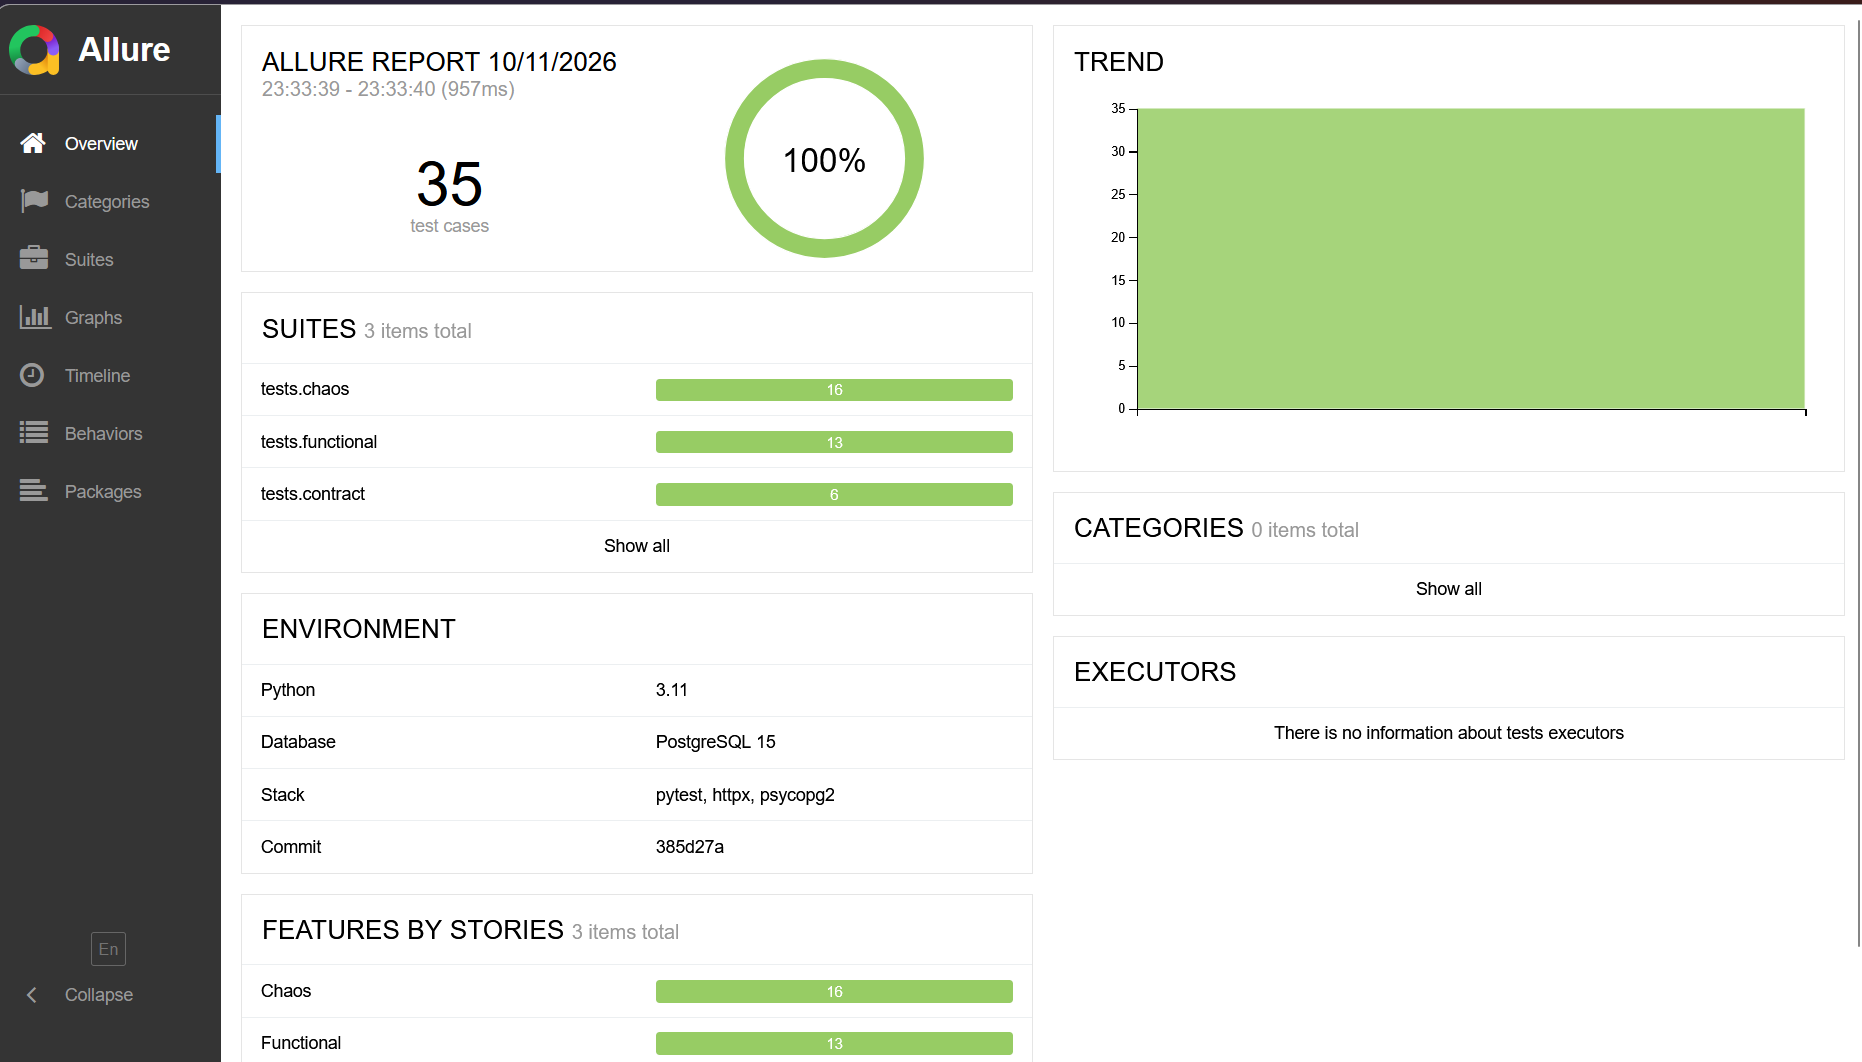
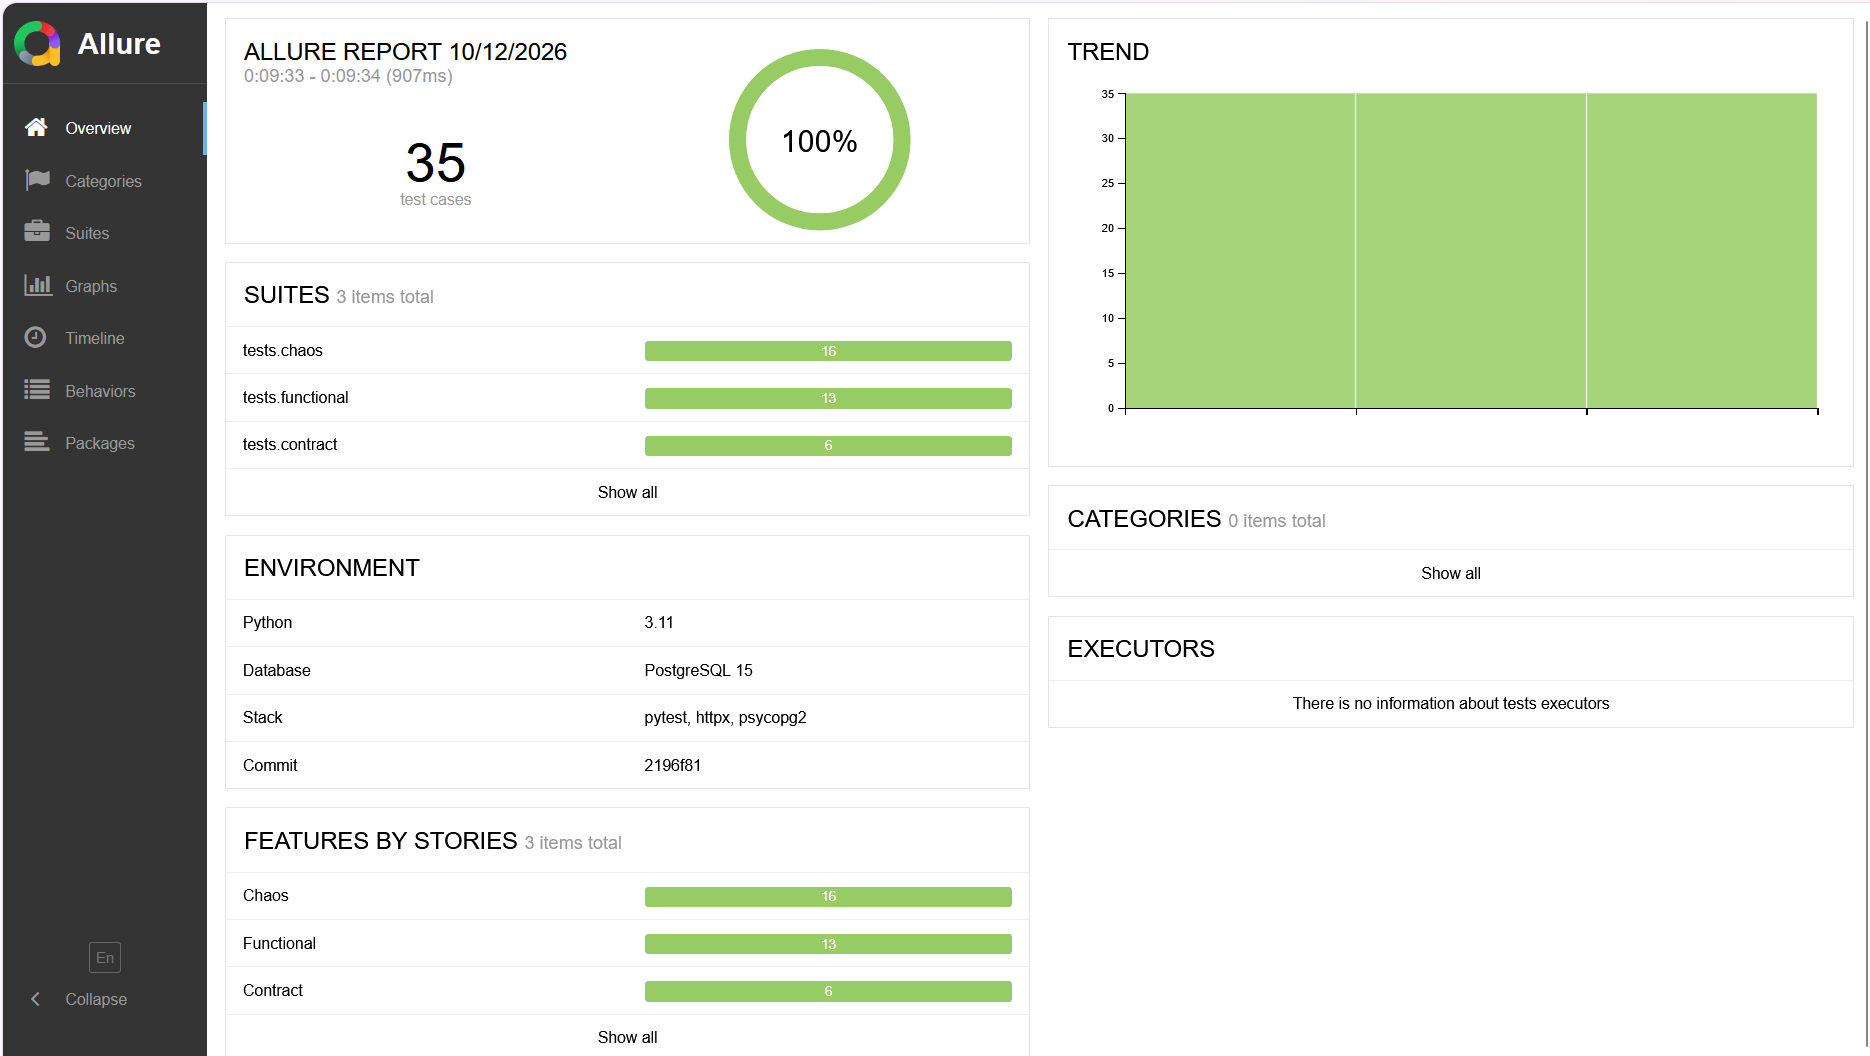
Polish README, pin CI runners, add Allure executor metadata
- Rewrite README opening and narrow the Decimal claim to order amounts
- Soften the Contract bullet to match what the tests actually do
- Pin jobs to ubuntu-24.04, bump setup-java to v5, write executor.json
- Recapture Allure screenshots
- Record float wallet balances as an open item in INCIDENTS.md

Claude-Session: https://claude.ai/code/session_014aeHZsWTuohzqjXeMrmGZC

diff --git a/README.md b/README.md
@@ -3,7 +3,7 @@
 [![API Engine Test Pipeline](https://github.com/dannyc7765/transactional-api-engine/actions/workflows/api-tests.yml/badge.svg)](https://github.com/dannyc7765/transactional-api-engine/actions/workflows/api-tests.yml)
 [![Live Allure Report](https://img.shields.io/badge/Allure_Report-Live_Telemetry-brightgreen?logo=allure)](https://dannyc7765.github.io/transactional-api-engine/)
 
-High-concurrency transactional API built with FastAPI, PostgreSQL row-level locking (`SELECT ... FOR UPDATE`), and token sliding-window middleware.
+A transactional REST API (FastAPI + PostgreSQL) built to be attacked: row-level locking prevents overselling and wallet overdraw under concurrent requests, and a Docker Compose test harness proves it in CI, with results published as an Allure report.
 
 ## System Architecture
 
@@ -30,29 +30,25 @@ High-concurrency transactional API built with FastAPI, PostgreSQL row-level lock
 
 Every defect found and fixed during hardening is documented in [INCIDENTS.md](INCIDENTS.md).
 
-The live report is on GitHub Pages. The overview shows the full run, and the suites view shows what each test protects.
+The [live Allure report](https://dannyc7765.github.io/transactional-api-engine/) is published from `main` on every merge. The overview shows the full run, and the suites view shows what each test protects.
 
 ![Allure report: 35 passing tests across chaos, functional and contract suites](docs/allure-overview.png)
 
 ![Allure suites view showing the concurrency tests that guard against overselling and wallet overdraw](docs/allure-suites.png)
 
-Test credentials in `docker-compose.yml` are fixtures for the hermetic test harness. Secret scanning runs in CI (`.gitleaks.toml`).
-
-Interactive execution timelines, test suites, and chaos run logs are deployed on every push:
-👉 **[View Live Allure Telemetry Report](https://dannyc7765.github.io/transactional-api-engine/)**
-
 The suite is organized into three tagged suites (`pytest -m chaos|functional|contract`):
 
 * **Chaos (16):** PostgreSQL row-level locking under concurrent load, covering stock (no overselling), wallets (no overdraw) and charging (exactly one buyer is charged). Also JWT boundary faults (expiry, bad signature, `alg=none`), rate limiting, malformed payloads and client timeouts.
 * **Functional (13):** Transaction lifecycles verified against both the API response and the database, input validation (negative/zero amounts), and error-code mapping (404/409/422).
-* **Contract (6):** Strict response-model validation and typed-client error handling.
+* **Contract (6):** Strict schema validation (unknown fields rejected, types and enums enforced) and typed-client error handling. Live API responses are validated against the same models inside the functional suite.
 
 ## Design Decisions & Known Limitations
 
-* Money is `Decimal` end to end; amounts are validated at the model boundary.
+* Order amounts are `Decimal` end to end and validated at the model boundary. User wallet balances are still `float` in the API models (known limitation).
 * Lock order is always user -> product to avoid deadlocks.
 * The rate limiter is in-process (single worker only); a shared store such as Redis is needed for horizontal scale.
 * No idempotency keys: a retried order creates a second order.
+* Test credentials in `docker-compose.yml` are fixtures for the hermetic harness; secret scanning runs in CI (`.gitleaks.toml`).
 
 ## Local Pipeline Execution
 

diff --git a/INCIDENTS.md b/INCIDENTS.md
@@ -898,3 +898,4 @@ Known gaps, listed so they are decisions and not surprises.
 - **`contents: write` is granted to the whole workflow.** It should be scoped to the deploy job only.
 - **Old Allure report data on `gh-pages` still contains the expired test tokens.** They are allowlisted in `.gitleaks.toml`, not removed from history.
 - **Redundant `chmod -R 777` in the workflow.** The `chown` step from INC-024 supersedes it, so the older step can be removed.
+- **Wallet balances are still `float` in the API models.** Order amounts are `Decimal` end to end, but `initial_deposit` and `wallet_balance` in `src/models/user.py` are `float`.
